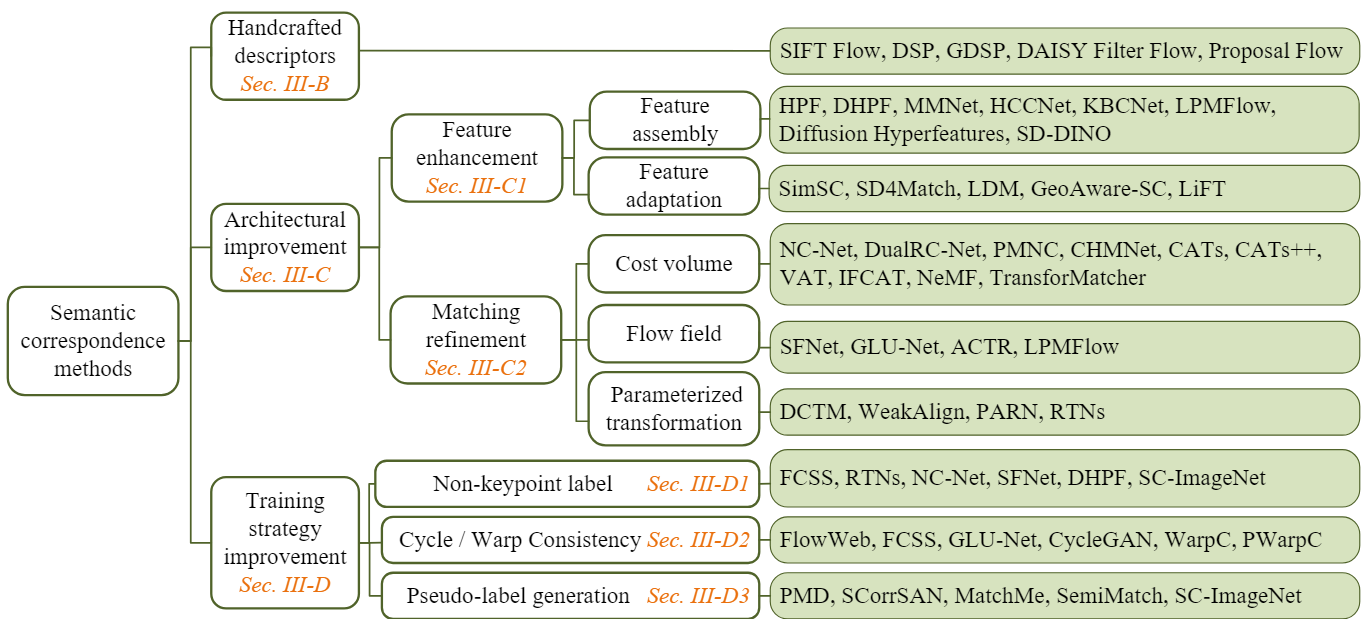
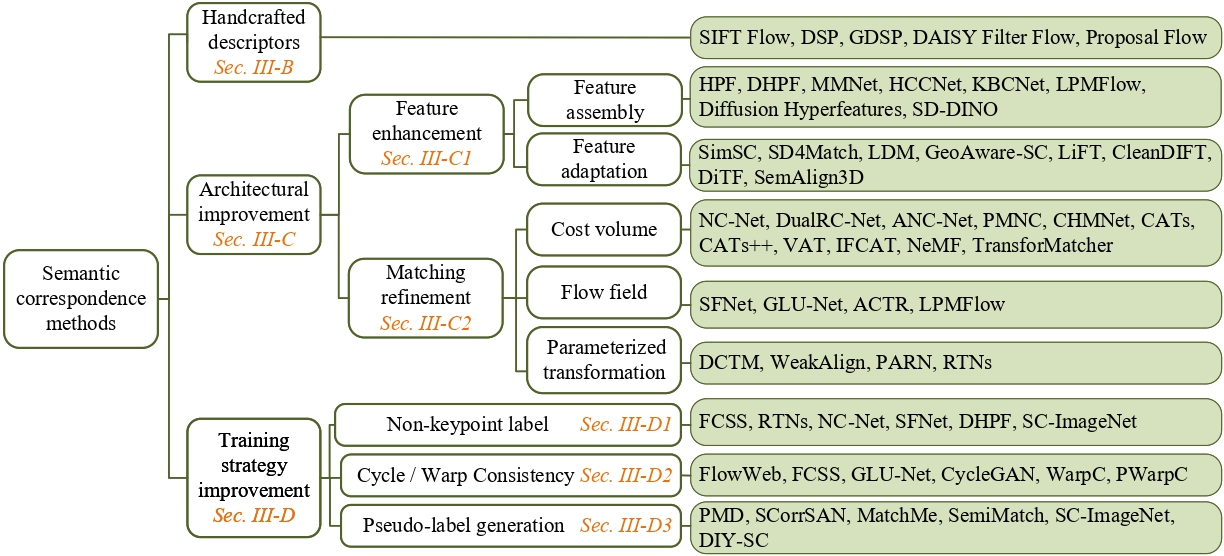
add 2025 publications

Changed region(s): [[0.0, 0.0, 1.0, 1.0]]

diff --git a/paper_list.md b/paper_list.md
@@ -226,6 +226,25 @@ Early CNN methods
   [[Project Page]](https://www.cs.umd.edu/~sakshams/LiFT/)
   [[Code]](https://github.com/saksham-s/lift)
 
+- *CleanDIFT: Diffusion Features without Noise*  
+  Nick Stracke, Stefan Andreas Baumann, Kolja Bauer, Frank Fundel, Björn Ommer  
+  **CVPR 2025 Oral**.
+  [[Paper]](https://arxiv.org/abs/2412.03439)
+  [[Project Page]](https://compvis.github.io/cleandift/)
+  [[Code]](https://github.com/CompVis/cleandift)
+
+- *SemAlign3D: Semantic Correspondence between RGB-Images through Aligning 3D Object-Class Representations*  
+  Krispin Wandel, Hesheng Wang  
+  **CVPR 2025**.
+  [[Paper]](https://arxiv.org/abs/2503.22462)
+  [[Project Page]](https://semalign3d.papers.discuna.com/)
+  [[Code]](https://github.com/krispinwandel/semalign3d)
+
+- *Unleashing Diffusion Transformers for Visual Correspondence by Modulating Massive Activations*  
+  Chaofan Gan, Yuanpeng Tu, Xi Chen, Tieyuan Chen, Yuxi Li, Mehrtash Harandi, Weiyao Lin  
+  **arXiv preprint 2025**. 
+  [[Paper]](https://arxiv.org/abs/2505.18584)  
+
 ### Matching Refinement
 
 #### Cost Volume-Based Methods
@@ -584,6 +603,13 @@ Early CNN methods
   [[Paper]](https://arxiv.org/abs/2311.18540)
   [[Code]](https://github.com/naver-ai/matchme)
 
+- *Do It Yourself: Learning Semantic Correspondence from Pseudo-Labels*   
+  Olaf Dünkel, Thomas Wimmer, Christian Theobalt, Christian Rupprecht, Adam Kortylewski  
+  **ICCV 2025**. 
+  [[Paper]](https://arxiv.org/abs/2506.05312) 
+  [[Project Page]](https://genintel.github.io/DIY-SC) 
+  [[Code]](https://github.com/odunkel/DIY-SC)
+
 ### Other Improvements
 
 - *DCTM: Discrete-Continuous Transformation Matching for Semantic Flow*  
@@ -637,3 +663,19 @@ Early CNN methods
   [[Paper]](https://arxiv.org/abs/2412.03512)
   [[Project Page]](https://compvis.github.io/distilldift/) 
   [[Code]](https://github.com/compvis/DistillDIFT)
+
+- *Jamais Vu: Exposing the Generalization Gap in Supervised Semantic Correspondence*  
+  Octave Mariotti, Zhipeng Du, Yash Bhalgat, Oisin Mac Aodha, Hakan Bilen  
+  **NeurIPS 2025**. 
+  [[Paper]](https://arxiv.org/abs/2506.08220) 
+
+- *Bridging Viewpoint Gaps: Geometric Reasoning Boosts Semantic Correspondence*  
+  Qiyang Qian, Hansheng Chen, Masayoshi Tomizuka, Kurt Keutzer, Qianqian Wang, Chenfeng Xu  
+  **CVPR 2025**.
+  [[Paper]](https://openaccess.thecvf.com/content/CVPR2025/papers/Qian_Bridging_Viewpoint_Gaps_Geometric_Reasoning_Boosts_Semantic_Correspondence_CVPR_2025_paper.pdf)
+  [[Code]](https://github.com/Qiyang-Q/Bridge-Viewpoint-Gap)
+
+- *Towards Robust Semantic Correspondence: A Benchmark and Insights*  
+  Wenyue Chong  
+  **arXiv preprint 2025**. 
+  [[Paper]](https://arxiv.org/abs/2508.00272)  
